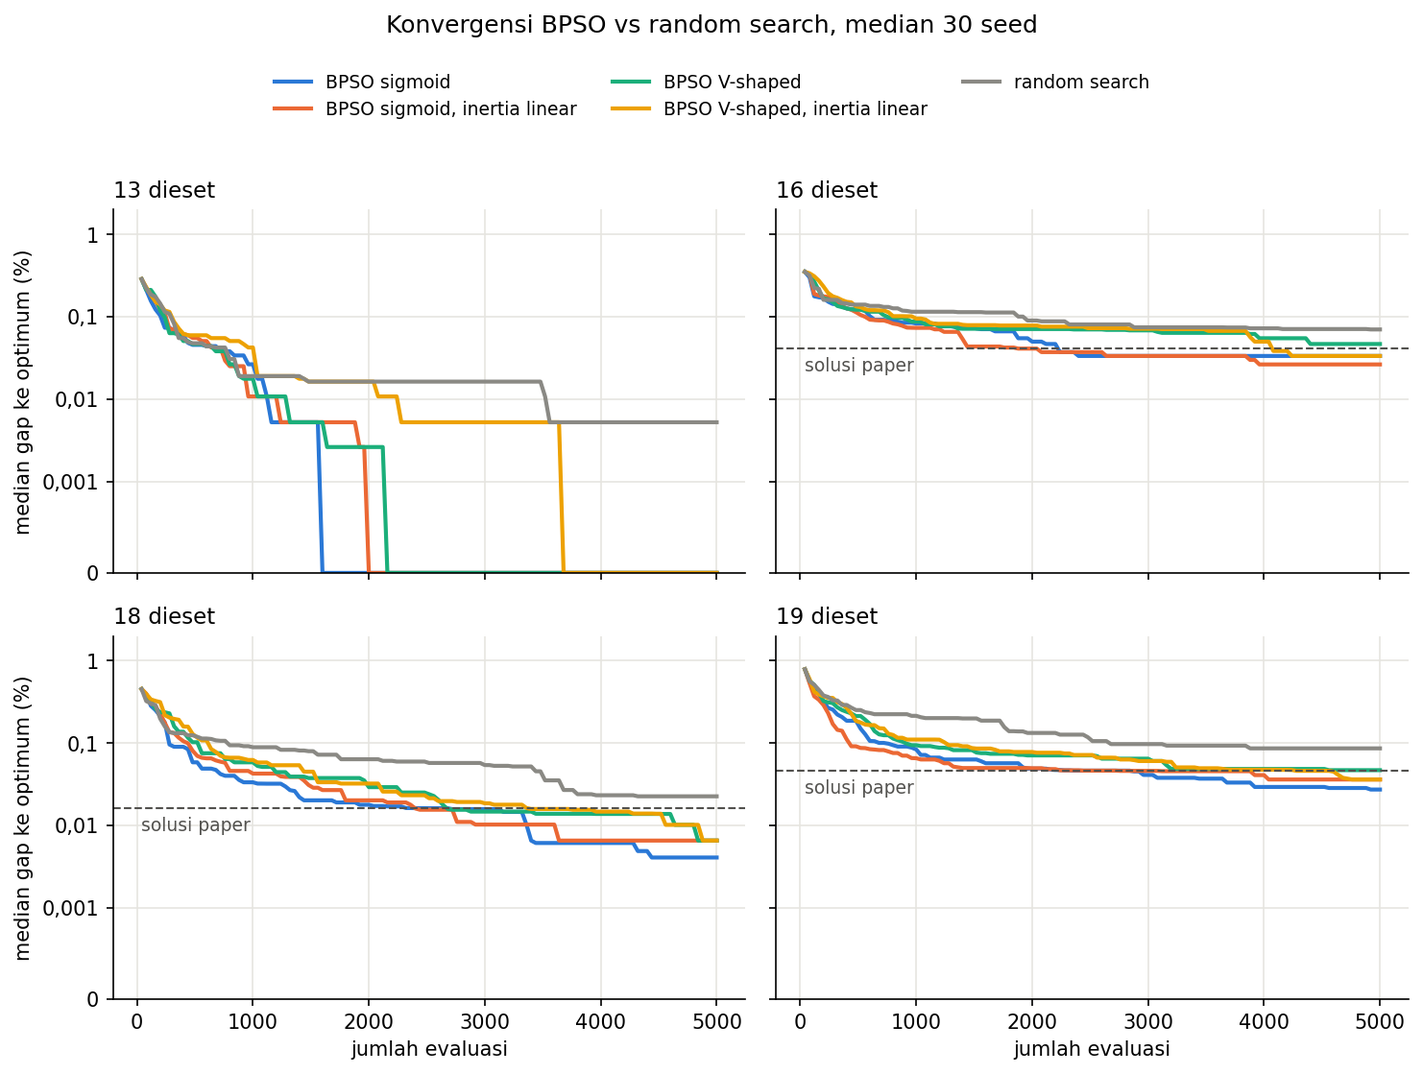
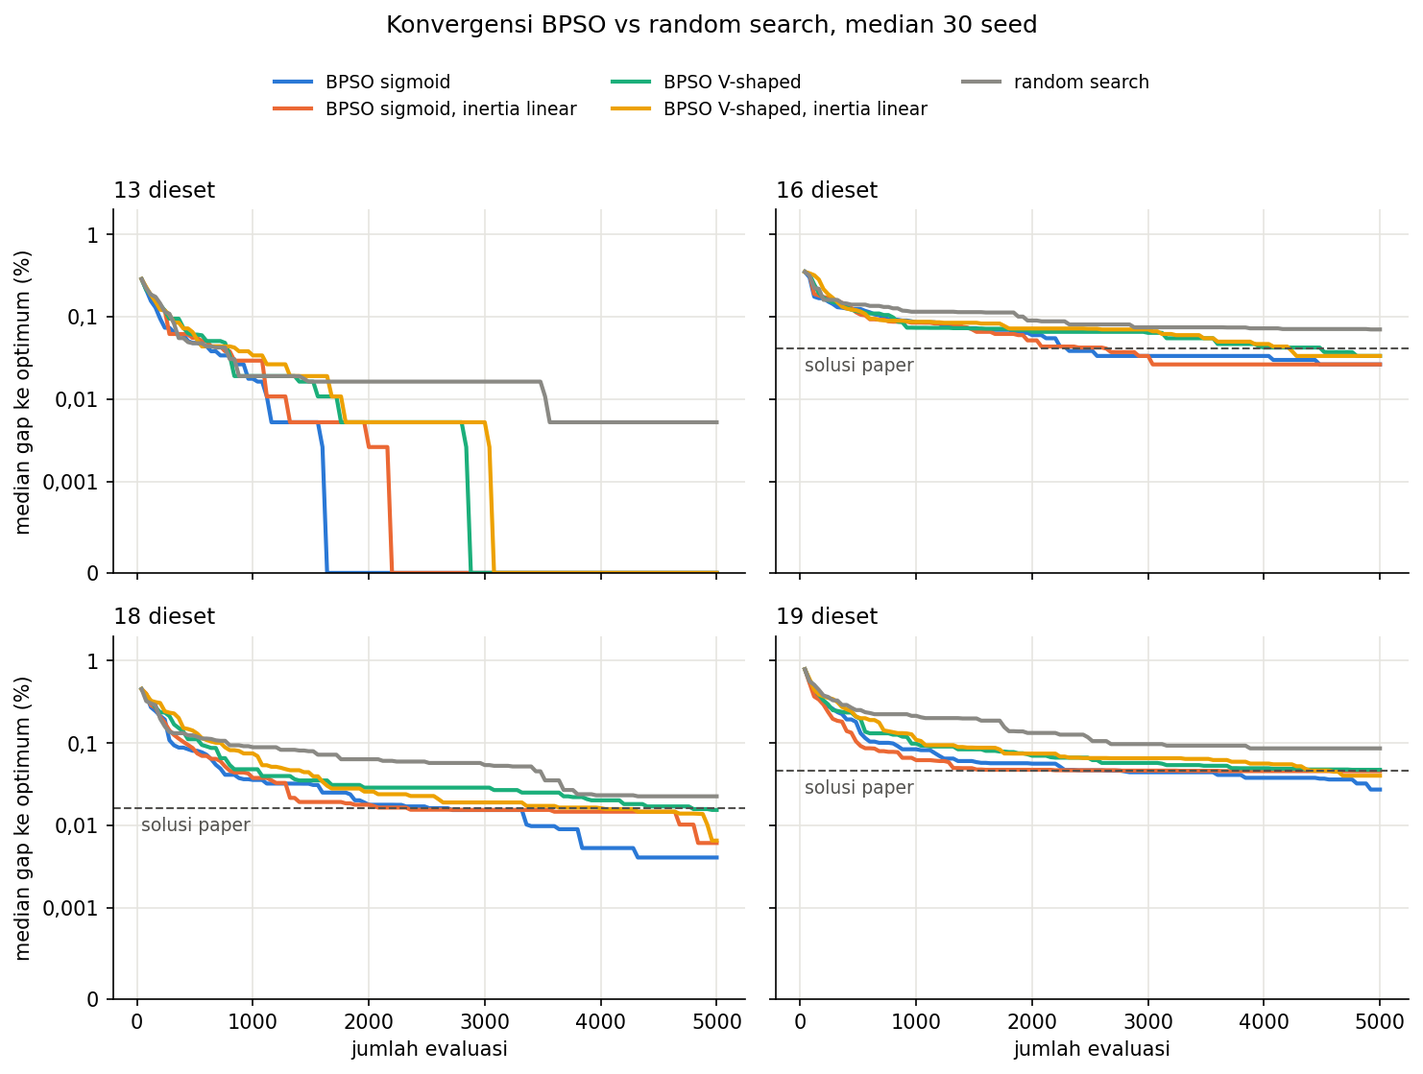
doc: update swarm document

diff --git a/docs/swarm-intelligence.md b/docs/swarm-intelligence.md
@@ -2,47 +2,54 @@
 
 > Bagian **Swarm Intelligence** dari tugas besar AI5103 pada dataset *Path Matters*.
 
-Bagian ini memakai **Binary Particle Swarm Optimization (BPSO)** untuk mengalokasikan dieset flexible ke mesin `GP260` atau `GP640` dengan biaya minimum. Alasan pemilihannya dijelaskan di §2, dan alur prosesnya digambarkan di §3.
+Bagian ini memakai **Binary Particle Swarm Optimization (BPSO)** untuk mengalokasikan dieset flexible ke mesin `GP260` atau `GP640` dengan biaya minimum. Alasan pemilihannya dijelaskan di §2, dan alur prosesnya di §3.
 
-Kode bersama kelompok (`src/problem.py`, `src/algorithm/base.py`, `data/processed/preprocess.py`) **tidak diubah**. Preprocessing khusus swarm dibuat sebagai script terpisah.
+Data yang dipakai adalah instance kelompok di `data/processed/instances/` (hasil `preprocess.py`), sama seperti GA. Satu-satunya tambahan: optimum untuk menghitung gap diambil dari brute-force (`src/optimum.py`), bukan dari nilai paper. Alasannya ada di §1.
 
 ---
 
 ## 1. Temuan Data yang Memengaruhi Desain
 
-Brute-force atas semua $2^n$ kombinasi (paling banyak 524.288 untuk $n = 19$, selesai dalam hitungan detik) menghasilkan tiga temuan.
+Brute-force atas semua $2^n$ kombinasi (paling banyak 524.288 untuk $n = 19$, kurang dari 1 detik) menghasilkan tiga temuan.
 
-**a. Kapasitas mesin belum dikurangi beban dieset fixed.**
-Semua dieset fixed dialokasikan ke `GP260`. Namun `preprocess.py` membuangnya tanpa mengurangi kapasitas mesin. Contohnya pada instance 3: dieset fixed sudah memakai 797,16 dari 953,03 jam, sehingga sisa kapasitas sebenarnya hanya 155,9 jam. README §1.2 sendiri menyebut dieset fixed tetap menyumbang beban kapasitas.
+**a. Optimum paper bukan optimum terbaik untuk instance 16, 18, dan 19.**
+Brute-force menemukan solusi feasible yang lebih murah 0,016–0,046%. Jika gap dihitung terhadap `optimal_cost` dari paper, sebuah algoritma bisa mendapat gap negatif, dan success rate menjadi tidak bermakna. Karena itu, semua metrik di bagian ini dihitung terhadap optimum brute-force (§4).
 
-**b. Optimum paper bukan optimum terbaik untuk instance 16, 18, dan 19.**
-Brute-force menemukan solusi feasible yang lebih murah 0,016–0,046%. Jika optimality gap dihitung terhadap nilai paper, gap bisa bernilai negatif.
+| n dieset | Optimum brute-force | Optimum paper | Selisih paper |
+|---:|---:|---:|---:|
+| 3  | 443.483,21   | 443.483,21   | 0       |
+| 9  | 2.249.378,78 | 2.249.378,78 | 0       |
+| 13 | 5.223.596,12 | 5.223.596,12 | 0       |
+| 16 | 5.801.121,21 | 5.803.504,82 | +0,041% |
+| 18 | 5.962.911,99 | 5.963.876,62 | +0,016% |
+| 19 | 6.112.960,59 | 6.115.761,14 | +0,046% |
+
+**b. Kapasitas mesin belum dikurangi beban dieset fixed.**
+Semua dieset fixed dialokasikan ke `GP260`, tetapi `preprocess.py` memakai kapasitas penuh. Contohnya pada instance 3: dieset fixed sudah memakai 797,16 dari 953,03 jam. Hal ini **tidak mengubah optimum**, karena brute-force memberi solusi terbaik yang sama dengan kedua versi kapasitas. Yang berubah hanya luas ruang feasible:
+
+| n dieset | Fraksi feasible (data kelompok) | Fraksi feasible (jika dikurangi beban fixed) |
+|---:|---:|---:|
+| 3  | 50,0% | 12,5% |
+| 9  | 66,6% | 35,0% |
+| 13 | 72,6% | 36,0% |
+| 16 | 76,4% | 42,5% |
+| 18 | 80,7% | 43,8% |
+| 19 | 88,4% | 42,4% |
+
+Kelompok memutuskan memakai data apa adanya, dan hal ini dicatat sebagai keterbatasan (§4.3).
 
 **c. Masalahnya berstruktur 0/1 knapsack.**
 - Untuk setiap dieset, gen 0 selalu `GP260` dan gen 1 selalu `GP640`.
 - `work_hours` sebuah dieset sama di kedua mesin.
 - `GP640` lebih murah untuk hampir semua dieset, kecuali satu dieset di instance 19.
 
-Optimum selalu menempel di batas kapasitas. Untuk $n \ge 9$, `GP640` terpakai 99,4–99,9%. Untuk $n = 3$, yang ketat justru `GP260` (153,6 dari 155,9 jam).
-
-| n dieset | Kapasitas residual GP260 / GP640 (jam) | Fraksi feasible (kapasitas penuh) | Fraksi feasible (kapasitas residual) | Optimum brute-force | Optimum paper | Selisih paper |
-|---:|---:|---:|---:|---:|---:|---:|
-| 3  | 155,9 / 146,6     | 50,0% | 12,5% | 443.483,21   | 443.483,21   | 0       |
-| 9  | 385,2 / 378,8     | 66,6% | 35,0% | 2.249.378,78 | 2.249.378,78 | 0       |
-| 13 | 886,9 / 967,8     | 72,6% | 36,0% | 5.223.596,12 | 5.223.596,12 | 0       |
-| 16 | 1.090,1 / 1.189,6 | 76,4% | 42,5% | 5.801.121,21 | 5.803.504,82 | +0,041% |
-| 18 | 1.119,4 / 1.293,0 | 80,7% | 43,8% | 5.962.911,99 | 5.963.876,62 | +0,016% |
-| 19 | 1.099,5 / 1.456,2 | 88,4% | 42,4% | 6.112.960,59 | 6.115.761,14 | +0,046% |
-
-Optimum brute-force sama untuk kapasitas penuh maupun residual. Yang berubah hanya ruang feasible-nya, yang menjadi jauh lebih sempit (instance 3 hanya punya **1 solusi feasible dari 8**).
-
-Solusi yang hampir optimal juga sangat rapat. Di instance 18, solusi terbaik kedua hanya 0,002% di atas optimum, dan ada 24.177 solusi feasible dalam rentang 1% dari optimum. Karena itu, metrik "tepat optimum" saja tidak cukup (lihat §8).
+Untuk $n \ge 9$, optimum menempel di batas kapasitas `GP640`, dengan utilisasi 99,4–99,9%. Solusi yang hampir optimal juga sangat rapat. Di instance 18, solusi terbaik kedua hanya 0,002% di atas optimum. Karena itu, metrik "tepat optimum" saja tidak cukup (lihat §8).
 
 ---
 
 ## 2. Alasan Pemilihan Algoritma
 
-BPSO dipilih terutama karena **karakteristik datanya**, ditambah dua alasan praktis.
+BPSO dipilih terutama karena karakteristik datanya, ditambah dua alasan praktis.
 
 ### 2.1 Alasan dari karakteristik data
 
@@ -56,15 +63,15 @@ BPSO dipilih terutama karena **karakteristik datanya**, ditambah dua alasan prak
 ### 2.2 Alasan praktis
 
 - **Sesuai skeleton kelompok.** `src/algorithm/swarm.py` sudah mendefinisikan `ParticleSwarm` dengan parameter `inertia`, `cognitive`, dan `social`.
-- **Perbandingan dengan GA menjadi adil.** Representasi, fitness, dan penalty-nya sama persis dengan GA. Jadi kalau hasilnya berbeda, perbedaan itu murni berasal dari mekanisme pencarian: evolusi (crossover + mutasi) lawan swarm (pbest + gbest).
+- **Perbandingan dengan GA menjadi adil.** Data, representasi, fitness, dan penalty-nya sama persis dengan GA. Jadi kalau hasilnya berbeda, perbedaan itu murni berasal dari mekanisme pencarian: evolusi (crossover + mutasi) lawan swarm (pbest + gbest).
 
 ### 2.3 Alternatif yang dipertimbangkan
 
 | Algoritma | Kecocokan | Alasan tidak dipilih sebagai metode utama |
 |---|---|---|
-| **Ant Colony Optimization (ACO)** | Tinggi. Semut membangun solusi dieset per dieset, dengan heuristik $\eta_d = (c_{d,0} - c_{d,1}) / w_d$ yang sesuai dengan struktur knapsack. Kemungkinan lebih cepat menemukan optimum. | Memakai pengetahuan khusus masalah yang tidak dimiliki GA, sehingga perbandingannya kurang setara. Tidak cocok dengan skeleton yang ada dan harus ditulis dari nol. Bisa menjadi pembanding tambahan jika tugas membolehkan. |
-| **ABC, Firefly, Grey Wolf** | Sedang | Aslinya algoritma kontinu, jadi tetap butuh fungsi transfer biner seperti BPSO. Tidak ada keuntungan tambahan untuk data ini. |
-| **PSO kontinu + pembulatan** | Rendah | Pembulatan posisi membuat banyak partikel terjebak di bit yang sama. BPSO adalah cara baku untuk menurunkan PSO ke ruang biner. |
+| Ant Colony Optimization (ACO) | Tinggi. Semut membangun solusi dieset per dieset, dengan heuristik $\eta_d = (c_{d,0} - c_{d,1}) / w_d$ yang sesuai dengan struktur knapsack. Kemungkinan lebih cepat menemukan optimum. | Memakai pengetahuan khusus masalah yang tidak dimiliki GA, sehingga perbandingannya kurang setara. Tidak cocok dengan skeleton yang ada dan harus ditulis dari nol. Bisa menjadi pembanding tambahan jika tugas membolehkan. |
+| ABC, Firefly, Grey Wolf | Sedang | Aslinya algoritma kontinu, jadi tetap butuh fungsi transfer biner seperti BPSO. Tidak ada keuntungan tambahan untuk data ini. |
+| PSO kontinu + pembulatan | Rendah | Pembulatan posisi membuat banyak partikel terjebak di bit yang sama. BPSO adalah cara baku untuk menurunkan PSO ke ruang biner. |
 
 ---
 
@@ -74,21 +81,23 @@ BPSO dipilih terutama karena **karakteristik datanya**, ditambah dua alasan prak
 
 ```mermaid
 flowchart LR
-    A["Data asli<br/>QUBOS/*.json + info.csv"] --> B["preprocess_swarm.py<br/>kapasitas residual<br/>+ brute-force"]
-    B --> C["instances_swarm/<br/>instance_n_diesets.json"]
+    A["Data asli<br/>QUBOS/*.json + info.csv"] --> B["preprocess.py<br/>(kelompok)"]
+    B --> C["instances/<br/>instance_n_diesets.json"]
     C --> D["load_instance()<br/>ProblemInstance"]
-    D --> E["ParticleSwarm.run<br/>(problem, seed)"]
+    D --> O["with_true_optimum()<br/>optimum brute-force"]
+    O --> E["ParticleSwarm.run<br/>(problem, seed)"]
     E --> F["RunResult<br/>disimpan ke JSON"]
     F --> G["Analisis<br/>metrik, plot konvergensi,<br/>perbandingan GA"]
 ```
 
 Langkah per tahap:
 
-1. **Preprocessing** (§4): data QUBO asli diubah menjadi instance dengan kapasitas residual dan ground truth brute-force.
-2. **Load instance**: file JSON dibaca menjadi matriks `cost`, `work`, dan `capacity` lewat `load_instance()` milik kelompok.
-3. **Run BPSO** (§6): untuk setiap instance × konfigurasi × seed, swarm mencari genome terbaik sampai kriteria berhenti terpenuhi.
-4. **Simpan hasil**: setiap run menghasilkan satu `RunResult`, berisi genome terbaik, cost, status feasible, dan riwayat konvergensi.
-5. **Analisis** (§8): metrik dihitung terhadap optimum brute-force, lalu dibandingkan dengan baseline dan GA.
+1. **Preprocessing**: memakai `preprocess.py` milik kelompok tanpa perubahan logika.
+2. **Load instance**: file JSON dibaca menjadi matriks `cost`, `work`, dan `capacity` lewat `load_instance()`.
+3. **Optimum brute-force** (§4): `optimal_cost` dari paper diganti dengan optimum hasil enumerasi.
+4. **Run BPSO** (§6): untuk setiap instance × konfigurasi × seed, swarm mencari genome terbaik sampai kriteria berhenti terpenuhi.
+5. **Simpan hasil**: setiap run menghasilkan satu `RunResult`, berisi genome terbaik, cost, status feasible, dan riwayat konvergensi.
+6. **Analisis** (§8): metrik dihitung terhadap optimum brute-force, lalu dibandingkan dengan baseline dan GA.
 
 ### 3.2 Alur satu run BPSO
 
@@ -138,70 +147,38 @@ Kalau pbest dan gbest tidak sepakat (misalnya pbest = 0 dan gbest = 1), tarikann
 
 ---
 
-## 4. Preprocessing Khusus Swarm
+## 4. Data dan Ground Truth
 
-### 4.1 Lokasi dan cara pakai
+### 4.1 Data
 
-| | Path |
+BPSO memakai `data/processed/instances/instance_{n}_diesets.json` milik kelompok tanpa modifikasi. Instance di-load dengan `load_instance()` dari `src/problem.py`, sama seperti GA.
+
+### 4.2 Optimum brute-force (`src/optimum.py`)
+
+Modul ini berisi dua fungsi:
+
+| Fungsi | Keluaran |
 |---|---|
-| Script | `data/processed/preprocess_swarm.py` |
-| Output instance | `data/processed/instances_swarm/instance_{n}_diesets.json` |
-| Output ringkasan | `data/processed/instances_swarm_summary.csv` |
+| `brute_force(problem)` | `(optimal_cost, optimal_genome, n_feasible)` dari enumerasi semua genome |
+| `with_true_optimum(problem)` | salinan `ProblemInstance` dengan `optimal_cost` dan `optimal_genome` hasil brute-force |
 
-```bash
-python data/processed/preprocess_swarm.py
+Langkah `brute_force()`:
+1. Enumerasi semua genome. Indeks $0 \dots 2^n - 1$ diubah menjadi genome lewat `np.unravel_index` terhadap `choice_counts`.
+2. Evaluasi per blok 65.536 genome dengan `problem.evaluate_batch()` agar memori tetap kecil.
+3. Ambil genome feasible dengan cost terkecil.
+
+`ProblemInstance` adalah frozen dataclass, sehingga `with_true_optimum()` memakai `dataclasses.replace()`. Instance aslinya tidak berubah, dan seluruh kode lain (`base.py`, `RunResult`) tetap bekerja tanpa penyesuaian. Waktu komputasinya kurang dari 0,5 detik untuk instance 19.
+
+GA dapat memakai fungsi yang sama:
+
+```python
+from src.optimum import with_true_optimum
+problem = with_true_optimum(load_instance(path))
 ```
 
-Script ini **memakai ulang** fungsi `build_instance()` dari `preprocess.py` lewat `from preprocess import build_instance, SRC_DIR, INSTANCE_SIZES`. Import ini bisa jalan karena keduanya berada di folder yang sama. Hasil `build_instance()` kemudian diproses lanjut. Dengan cara ini tidak ada logika parsing yang diduplikasi, dan file milik kelompok tidak disentuh.
+### 4.3 Keterbatasan
 
-### 4.2 Langkah
-
-1. Panggil `build_instance(n, info)` untuk mendapatkan instance versi kelompok.
-2. Baca ulang `model.dieset_choices` dari JSON asli, lalu jumlahkan `work_required_hours` dieset fixed per mesin. Hasilnya `fixed_load_hours`.
-3. Hitung kapasitas residual: `capacity_hours = max_capacity_hours_per_timeslice − fixed_load_hours`.
-4. Lakukan brute-force atas semua $2^n$ genome, secara vektorisasi dengan numpy. Ambil genome feasible dengan cost terkecil sebagai ground truth.
-5. Simpan solusi paper sebagai pembanding, di bawah key `paper_*`.
-6. Validasi (lihat §4.4), lalu tulis JSON dan CSV ringkasan.
-
-### 4.3 Format output
-
-Skemanya **kompatibel** dengan `load_instance()` di `src/problem.py`, jadi tidak perlu loader baru. Field yang berubah atau bertambah:
-
-```jsonc
-{
-  "n_diesets": 3,
-  "n_machines": 2,
-  "n_fixed_diesets_ignored": 13,
-  "machines": [
-    {
-      "machine_id": 24, "machine_name": "GP260",
-      "capacity_hours": 155.87,          // RESIDUAL = total − beban dieset fixed
-      "capacity_hours_total": 953.03,    // baru: kapasitas asli
-      "fixed_load_hours": 797.16         // baru: beban dieset fixed
-    },
-    { "machine_id": 27, "machine_name": "GP640", "capacity_hours": 146.65, "capacity_hours_total": 146.65, "fixed_load_hours": 0.0 }
-  ],
-  "diesets": [ /* sama persis dengan versi kelompok */ ],
-  "ground_truth": {
-    "source": "brute_force",
-    "optimal_cost": 443483.21,                              // hasil brute-force
-    "optimal_assignment_dieset_to_machine": {"3": 24, "2": 27, "0": 27},
-    "n_feasible": 1,
-    "n_total": 8,
-    "paper_optimal_cost": 443483.21,                        // dari info.csv
-    "paper_optimal_bitstring": "...",
-    "paper_assignment_dieset_to_machine": {"3": 24, "2": 27, "0": 27}
-  }
-}
-```
-
-### 4.4 Validasi (`assert`)
-
-- Cost dari `optimal_assignment_dieset_to_machine`, jika dihitung ulang, sama dengan `optimal_cost`.
-- Solusi brute-force feasible terhadap kapasitas residual.
-- Solusi paper juga feasible terhadap kapasitas residual. Ini sudah dicek: beban `GP260` di solusi paper selalu di bawah kapasitas residualnya.
-- `optimal_cost ≤ paper_optimal_cost`.
-- Untuk $n \in \{3, 9, 13\}$, assignment brute-force sama dengan assignment paper.
+Kapasitas mesin pada data kelompok belum dikurangi beban dieset fixed (§1b). Optimumnya tetap sama, tetapi ruang feasible lebih longgar daripada kondisi sebenarnya. Akibatnya, feasibility rate pada percobaan ini cenderung lebih optimis dibanding kondisi pabrik yang sebenarnya.
 
 ---
 
@@ -259,7 +236,7 @@ Perbedaan perilakunya:
 
 ```text
 initialize():
-    assert semua dieset punya 2 pilihan
+    cek semua dieset punya 2 pilihan        # ValueError jika tidak
     X  ← random_genomes(S)                  # (S, n) bit acak
     V  ← U(−v_max, v_max)                   # (S, n)
     F  ← evaluate(X)                        # sekaligus update gbest di base
@@ -298,10 +275,9 @@ Semua parameter ini dikembalikan oleh `extra_params()`, sehingga tercatat di `Ru
 
 | File | Status | Isi |
 |---|---|---|
-| `data/processed/preprocess_swarm.py` | baru | preprocessing §4 |
-| `data/processed/instances_swarm/` | baru (hasil generate) | 6 instance kapasitas residual + ground truth brute-force |
 | `src/algorithm/swarm.py` | diisi | `ParticleSwarm(Algorithm)`: `__init__`, `extra_params`, `initialize`, `iterate`, helper `_inertia`, `_transfer` |
 | `src/algorithm/baseline.py` | baru | `RandomSearch(Algorithm)` dan `greedy_knapsack()` untuk baseline §8.3 |
+| `src/optimum.py` | baru | optimum brute-force (§4.2), bisa dipakai juga oleh GA |
 | `experiments/run_swarm.py` | baru | menjalankan seluruh percobaan §8, menyimpan hasil ke `results/swarm/` |
 | `data/processed/preprocess.py` | perbaikan path | `SRC_DIR` sebelumnya menunjuk ke `data/src/QUBOS`, yang tidak ada. Sekarang menunjuk ke `data/original/src/QUBOS`. Logikanya tidak diubah, dan output `instances/` tetap identik. |
 | `src/problem.py`, `src/algorithm/base.py` | tidak diubah | – |
@@ -310,10 +286,11 @@ Contoh pemakaian:
 
 ```python
 from src.problem import load_instance
+from src.optimum import with_true_optimum
 from src.algorithm import ParticleSwarm
 
-problem = load_instance("data/processed/instances_swarm/instance_19_diesets.json")
-pso = ParticleSwarm(swarm_size=40, transfer="vshape", max_evaluations=5000)
+problem = with_true_optimum(load_instance("data/processed/instances/instance_19_diesets.json"))
+pso = ParticleSwarm(swarm_size=40, transfer="sigmoid", max_evaluations=5000)
 result = pso.run(problem, seed=0)
 print(result.best_cost, result.feasible, (result.best_cost / problem.optimal_cost - 1) * 100)
 ```
@@ -328,22 +305,22 @@ Perlu diperhatikan juga, `load_instances()` di `src/problem.py` mengimpor `src.p
 
 ### 8.1 Konfigurasi
 
-- **Instance**: keenam instance di `instances_swarm/`.
+- **Instance**: keenam instance di `data/processed/instances/`, dengan optimum brute-force.
 - **Seed**: 30 seed (0–29) per konfigurasi per instance.
 - **Budget**: berhenti berdasarkan `max_evaluations`, dengan nilai yang sama untuk GA dan BPSO (usulan: 5.000 evaluasi). Budget ini kurang dari 1% ruang pencarian instance 19. Untuk $n \le 9$, budget ini sudah melebihi ruang pencariannya (paling banyak 512 kombinasi), jadi hasil instance 3 dan 9 hanya berfungsi sebagai sanity check.
 
 | Studi | Variasi | Parameter lain |
 |---|---|---|
 | Fungsi transfer | `sigmoid` vs `vshape` | default |
-| Jadwal inertia | konstan 0,7 vs linear 0,9 → 0,4 | transfer terbaik |
-| Ukuran swarm | 20, 40, 80 | budget evaluasi tetap |
-| `v_max` | 4, 6 | transfer terbaik |
+| Jadwal inertia | konstan 0,7 vs linear 0,9 → 0,4 | sigmoid dan vshape |
+| Ukuran swarm | 20, 40, 80 | sigmoid, budget evaluasi tetap |
+| `v_max` | 4, 6 | sigmoid |
 
 ### 8.2 Metrik
 
 | Metrik | Definisi |
 |---|---|
-| Success rate | % run dengan `best_cost` = optimum brute-force (toleransi 1e-3) |
+| Success rate | % run dengan `best_cost` = optimum brute-force |
 | Near-optimal rate | % run dengan gap ≤ 0,1% |
 | Optimality gap | $(\text{best\_cost} - \text{opt}) / \text{opt} \times 100\%$, dilaporkan mean, median, dan worst |
 | Feasibility rate | % run yang hasil akhirnya feasible |
@@ -379,13 +356,13 @@ Konfigurasi default adalah sigmoid, $w = 0{,}7$, $c_1 = c_2 = 1{,}5$, `v_max = 4
 
 | Konfigurasi | n = 13 | n = 16 | n = 18 | n = 19 |
 |---|---:|---:|---:|---:|
-| sigmoid | 93,3 | 36,7 | 13,3 | 16,7 |
-| sigmoid, inertia 0,9 → 0,4 | 80,0 | 26,7 | 20,0 | 10,0 |
-| V-shaped | 83,3 | 30,0 | 13,3 | 6,7 |
-| V-shaped, inertia 0,9 → 0,4 | 86,7 | 10,0 | 23,3 | 0,0 |
-| sigmoid, $S = 20$ | 90,0 | 30,0 | 16,7 | 20,0 |
-| sigmoid, $S = 80$ | 86,7 | 26,7 | 16,7 | 3,3 |
-| sigmoid, `v_max = 6` | 93,3 | 40,0 | 23,3 | 10,0 |
+| sigmoid | 86,7 | 33,3 | 23,3 | 10,0 |
+| sigmoid, inertia 0,9 → 0,4 | 83,3 | 40,0 | 13,3 | 3,3 |
+| V-shaped | 70,0 | 13,3 | 23,3 | 10,0 |
+| V-shaped, inertia 0,9 → 0,4 | 80,0 | 16,7 | 0,0 | 10,0 |
+| sigmoid, $S = 20$ | 96,7 | 36,7 | 6,7 | 16,7 |
+| sigmoid, $S = 80$ | 93,3 | 23,3 | 23,3 | 13,3 |
+| sigmoid, `v_max = 6` | 93,3 | 36,7 | 20,0 | 10,0 |
 | random search | 46,7 | 3,3 | 3,3 | 0,0 |
 | greedy (1 run) | 0 | 0 | 0 | 0 |
 
@@ -393,13 +370,13 @@ Konfigurasi default adalah sigmoid, $w = 0{,}7$, $c_1 = c_2 = 1{,}5$, `v_max = 4
 
 | Konfigurasi | n = 13 | n = 16 | n = 18 | n = 19 |
 |---|---:|---:|---:|---:|
-| sigmoid | 0,0018 | 0,0299 | 0,0085 | 0,0249 |
-| sigmoid, inertia 0,9 → 0,4 | 0,0068 | 0,0286 | 0,0096 | 0,0360 |
-| V-shaped | 0,0043 | 0,0408 | 0,0108 | 0,0499 |
-| V-shaped, inertia 0,9 → 0,4 | 0,0047 | 0,0398 | 0,0116 | 0,0389 |
-| sigmoid, $S = 20$ | 0,0024 | 0,0288 | 0,0087 | 0,0311 |
-| sigmoid, $S = 80$ | 0,0017 | 0,0295 | 0,0117 | 0,0376 |
-| sigmoid, `v_max = 6` | 0,0003 | 0,0270 | 0,0106 | 0,0321 |
+| sigmoid | 0,0021 | 0,0283 | 0,0076 | 0,0253 |
+| sigmoid, inertia 0,9 → 0,4 | 0,0037 | 0,0267 | 0,0103 | 0,0384 |
+| V-shaped | 0,0050 | 0,0413 | 0,0171 | 0,0489 |
+| V-shaped, inertia 0,9 → 0,4 | 0,0032 | 0,0350 | 0,0114 | 0,0387 |
+| sigmoid, $S = 20$ | 0,0017 | 0,0282 | 0,0108 | 0,0296 |
+| sigmoid, $S = 80$ | 0,0003 | 0,0285 | 0,0152 | 0,0370 |
+| sigmoid, `v_max = 6` | 0,0003 | 0,0264 | 0,0115 | 0,0334 |
 | random search | 0,0078 | 0,0697 | 0,0356 | 0,0872 |
 | greedy (1 run) | 0,1245 | 0,1385 | 0,2608 | 0,1011 |
 | *solusi paper* | *0* | *0,041* | *0,016* | *0,046* |
@@ -411,11 +388,11 @@ Plot di atas menunjukkan median gap terhadap jumlah evaluasi. Sumbu-y memakai sk
 **Pengamatan**
 
 1. Semua 1.440 run BPSO menghasilkan solusi feasible, dan gap terburuknya 0,11%. Penalty feasibility-first bekerja sesuai rancangan.
-2. BPSO jelas lebih baik daripada random search dengan budget yang sama. Di $n \ge 16$, gap rata-rata BPSO 1,7–4 kali lebih kecil. Persentase run random search dengan gap ≤ 0,1% juga turun menjadi 66,7% di $n = 19$, sedangkan BPSO tetap 96,7–100%. Dari plot terlihat bahwa perbedaannya mulai muncul setelah beberapa ratus evaluasi pertama. Pada tahap itu random search mulai mendatar, sementara BPSO terus turun.
+2. BPSO jelas lebih baik daripada random search dengan budget yang sama. Di $n \ge 16$, gap rata-rata BPSO 1,7–4,7 kali lebih kecil. Persentase run random search dengan gap ≤ 0,1% juga turun menjadi 66,7% di $n = 19$, sedangkan BPSO tetap 96,7–100%. Dari plot terlihat bahwa perbedaannya mulai muncul setelah beberapa ratus evaluasi pertama. Pada tahap itu random search mulai mendatar, sementara BPSO terus turun.
 3. Greedy rasio penghematan/jam selalu meleset 0,10–0,26%. Artinya, walaupun strukturnya mirip knapsack, pilihan dieset yang optimal tidak bisa didapat hanya dengan mengurutkan rasio.
-4. Rata-rata hasil BPSO sigmoid lebih baik daripada solusi paper di instance 16, 18, dan 19. Di $n = 18$, misalnya, gap rata-ratanya 0,0085% berbanding 0,016%.
+4. Rata-rata hasil BPSO sigmoid lebih baik daripada solusi paper di instance 16, 18, dan 19. Contohnya, di $n = 18$ gap rata-ratanya 0,0076% berbanding 0,016%. Varian V-shaped tidak lebih baik daripada solusi paper di ketiga instance tersebut.
 5. Success rate turun tajam mulai $n = 16$. Penyebabnya bukan solusi yang buruk, melainkan rapatnya solusi yang hanya berbeda 0,002–0,03% dari optimum (§1). Swarm sering berhenti di salah satu solusi tetangga tersebut.
-6. Fungsi transfer sigmoid konsisten sedikit lebih baik daripada V-shaped. Dugaan sementara: pada V-shaped, bit tidak berubah saat $v \approx 0$, sehingga swarm cepat "membeku" setelah pbest dan gbest sama.
+6. Fungsi transfer sigmoid menghasilkan gap rata-rata yang lebih kecil daripada V-shaped di keempat instance. Dugaan sementara: pada V-shaped, bit tidak berubah saat $v \approx 0$, sehingga swarm cepat "membeku" setelah pbest dan gbest sama.
 7. Inertia linear, ukuran swarm, dan `v_max` tidak memberi perbedaan yang konsisten. Selisihnya kecil dan arahnya berubah-ubah antar-instance. Dengan 30 seed, perbedaan ini kemungkinan belum signifikan secara statistik, jadi perlu diuji (misalnya Mann–Whitney U) sebelum diklaim di laporan.
 
 ---
@@ -424,19 +401,23 @@ Plot di atas menunjukkan median gap terhadap jumlah evaluasi. Sumbu-y memakai sk
 
 **Rencana kerja**
 
-- [x] Tulis `data/processed/preprocess_swarm.py` dan generate `instances_swarm/`
 - [x] Implementasikan `ParticleSwarm` di `src/algorithm/swarm.py`
+- [x] Optimum brute-force sebagai ground truth (`src/optimum.py`)
 - [x] Buat baseline random search dan greedy
 - [x] Jalankan percobaan §8 dan simpan `RunResult` ke JSON
 - [x] Buat plot konvergensi dan tabel metrik (§8.4)
 - [ ] Uji statistik antar-konfigurasi, dan BPSO vs GA setelah GA selesai
 - [ ] Isi README §4–§6 bagian swarm
 
+**Sudah disepakati**
+
+- Data: `data/processed/instances/` dari `preprocess.py`, untuk GA maupun BPSO.
+
 **Perlu disepakati dengan kelompok**
 
-1. **Data yang dipakai untuk perbandingan GA vs BPSO.** Kalau GA memakai `instances/` (kapasitas penuh) dan BPSO memakai `instances_swarm/` (kapasitas residual), perbandingannya tidak adil. Usulan: keduanya memakai `instances_swarm/`.
-2. **Ground truth**: brute-force atau nilai paper. Usulan: brute-force, dan nilai paper dicantumkan sebagai catatan.
-3. **Budget evaluasi dan jumlah seed** bersama (usulan: 5.000 evaluasi, 30 seed).
+1. **Ground truth**: GA sebaiknya juga memakai `with_true_optimum()`, supaya gap kedua algoritma dihitung terhadap optimum yang sama dan tidak ada gap negatif.
+2. **Budget evaluasi dan jumlah seed** bersama (usulan: 5.000 evaluasi, 30 seed).
+3. **Keterbatasan kapasitas** (§4.3) dicantumkan di laporan.
 
 ---
 
